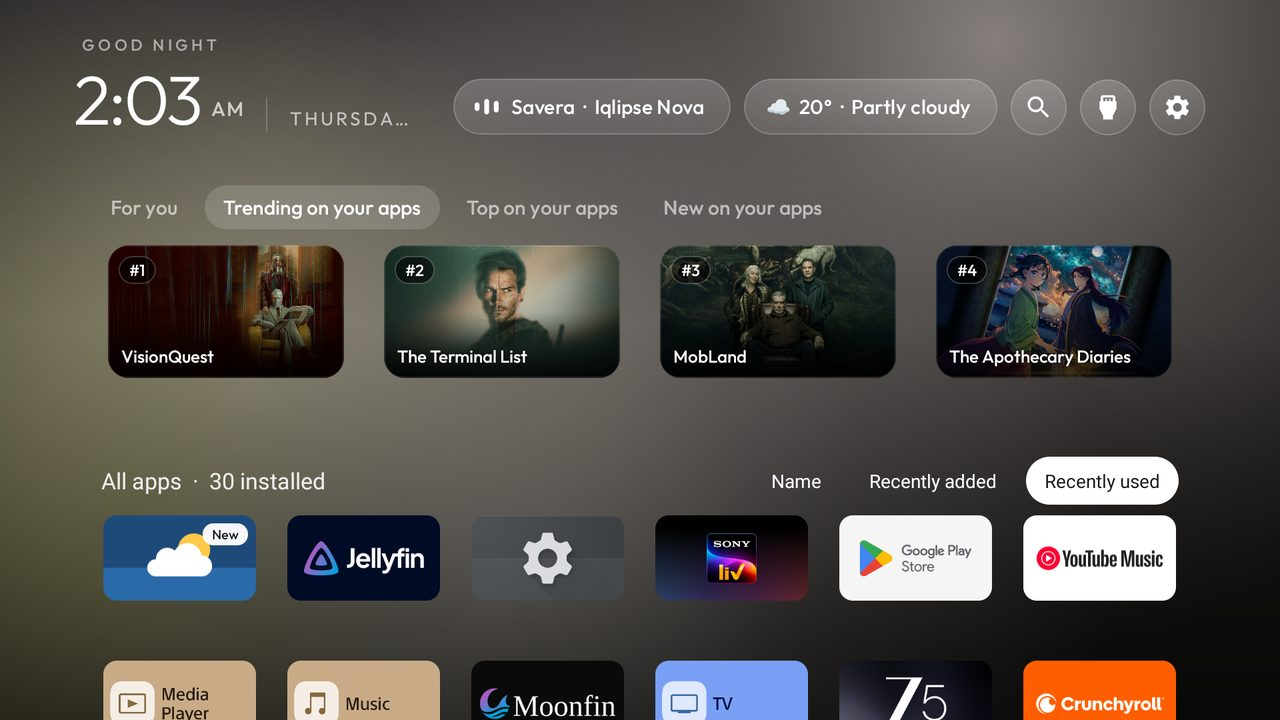
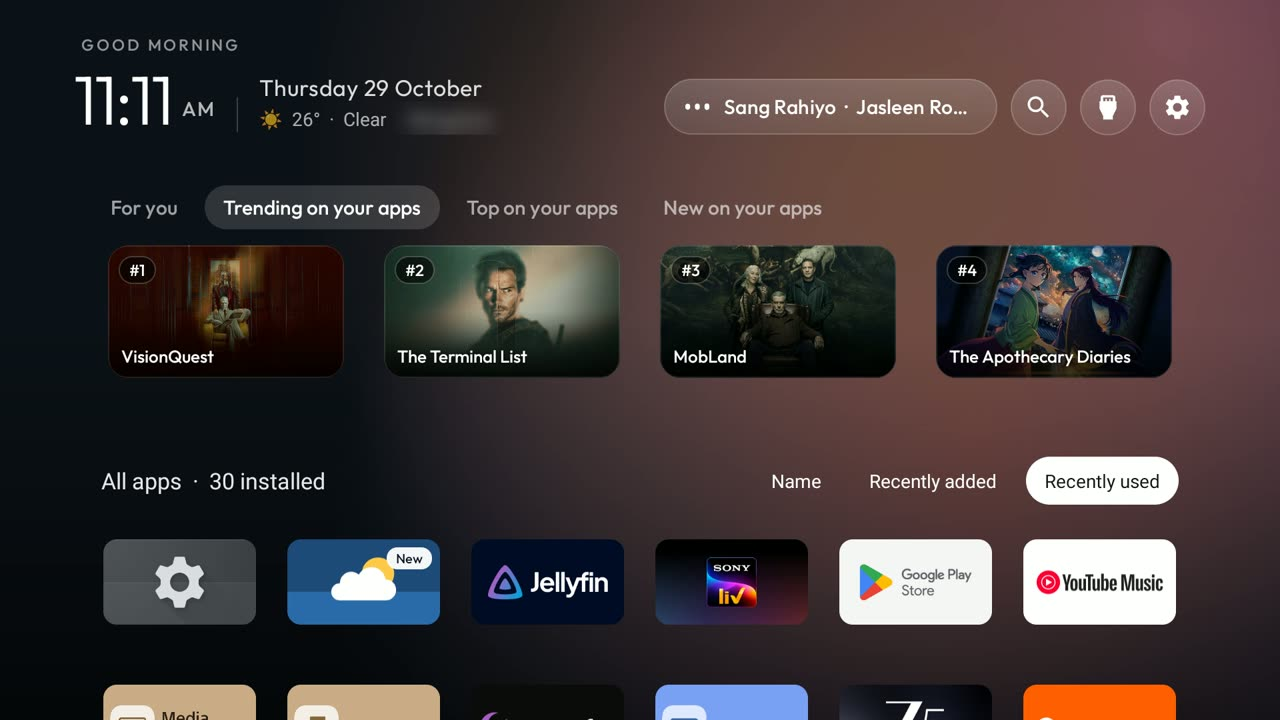
README: new screenshots (dashboard with music, Trending and All apps, the screensaver); python3-venv note for Debian/Ubuntu
A fresh clone on a computer without Python's venv module makes a venv with no pip, and /setup-tv's first
command then fails; the README and the skill now name the package. Cities blurred.

Claude-Session: https://claude.ai/code/session_01B1KZVkMNqJAF3WTxGxKcqG

diff --git a/README.md b/README.md
@@ -9,7 +9,7 @@ tracking. The launcher itself has no internet access; anything online lives in s
   <img src="docs/fork/all-apps.jpg" width="49%" alt="Discover's Trending row with #1 to #4 badges, and the All apps line with Name, Recently added and Recently used">
 </p>
 <p align="center">
-  <img src="docs/fork/now-playing.jpg" width="49%" alt="Now playing: album art, title, artist, progress and controls">
+  <img src="docs/fork/screensaver.jpg" width="49%" alt="The clock screensaver while music plays: the time and date over drifting colours from the album art, with the cover, title, artist and progress">
   <img src="docs/switches/aurora_background.jpg" width="49%" alt="The aurora background: soft clouds of colour from the playing track's album art">
 </p>
 
@@ -37,7 +37,7 @@ own. Upstream's full reference (the 290+ tested TV lists, every tool, every them
 |---|---|
 | **TV** | Android TV or Google TV, Android 8 or newer, with *Developer options* (any Sony, TCL, Hisense, Philips, Xiaomi, Chromecast with Google TV, Google TV Streamer, Nvidia Shield, ...) |
 | **Memory** | **2 GB or more** for everything. With 1 to 2 GB, use the dashboard without the animated aurora background. **Under 1 GB**: skip the dashboard and Discover and use upstream's plain launcher; the setup checks this for you. |
-| **Computer** | Windows, macOS or Linux on the same network as the TV, with Python 3 and, to build, JDK 17 and the Android SDK (platform 34). |
+| **Computer** | Windows, macOS or Linux on the same network as the TV, with Python 3 (on Debian/Ubuntu also `sudo apt install python3-venv`) and, to build, JDK 17 and the Android SDK (platform 34). |
 | **Optional** | A free [TMDB](https://www.themoviedb.org/signup) account (Discover), a free [Watchmode](https://api.watchmode.com) key (opening titles directly). Weather needs no account. |
 
 ## Set it up with Claude Code (recommended)

diff --git a/.claude/skills/setup-tv/SKILL.md b/.claude/skills/setup-tv/SKILL.md
@@ -16,7 +16,9 @@ screenshots with names or cities in them.
 Ask for: the TV's make and model, and its IP (Settings → Network) if they know it. Tell them to enable
 *Developer options* (Settings → System → About → press *Android TV OS build* 7 times) and turn on
 **USB debugging** and **Wireless debugging**. Make the tools' venv:
-`python3 -m venv tools/venv && tools/venv/bin/pip install -r tools/requirements.txt`.
+`python3 -m venv tools/venv && tools/venv/bin/pip install -r tools/requirements.txt`. If `tools/venv/bin/pip` is missing
+afterwards ("ensurepip is not available"), the computer lacks the venv module: on Debian/Ubuntu ask them to run
+`sudo apt install python3-venv` (with their Python's version, e.g. `python3.14-venv`), delete `tools/venv` and make it again.
 
 Then ask one checklist question up front, so you skip what they don't want instead of asking at each step:
 - **Discover** (posters of what's on their streaming apps): needs free TMDB and, optionally, Watchmode accounts
